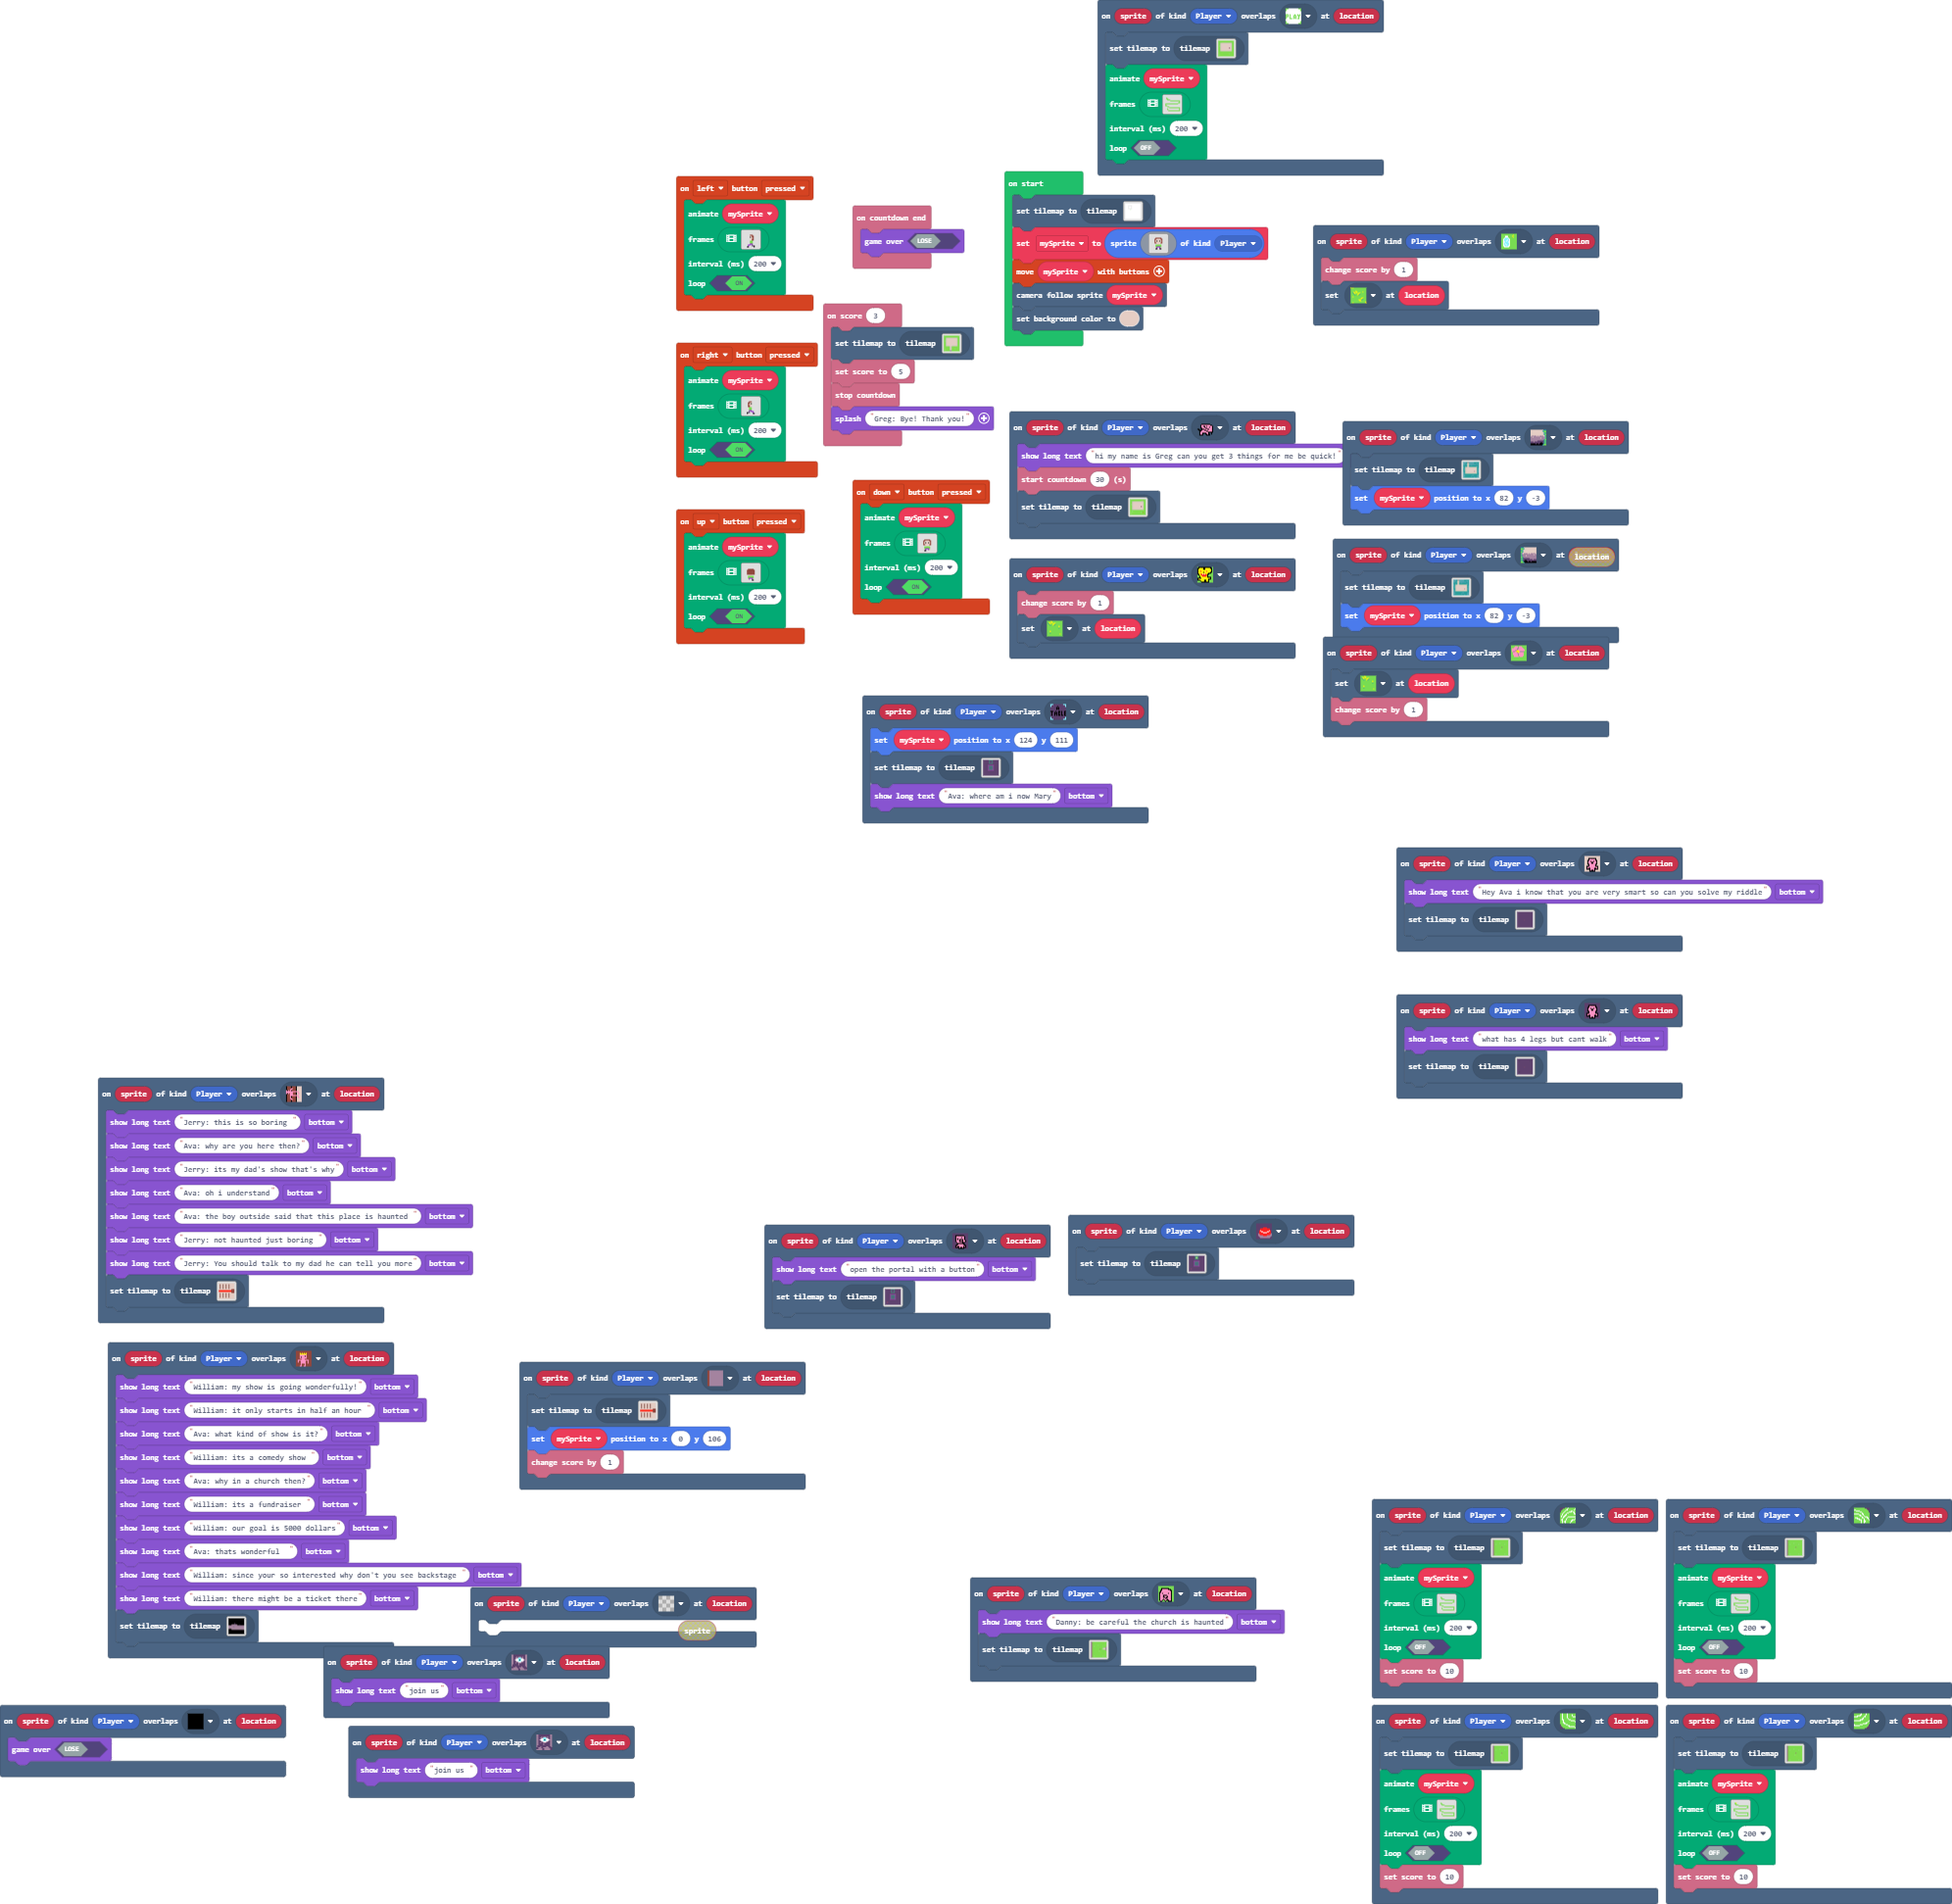
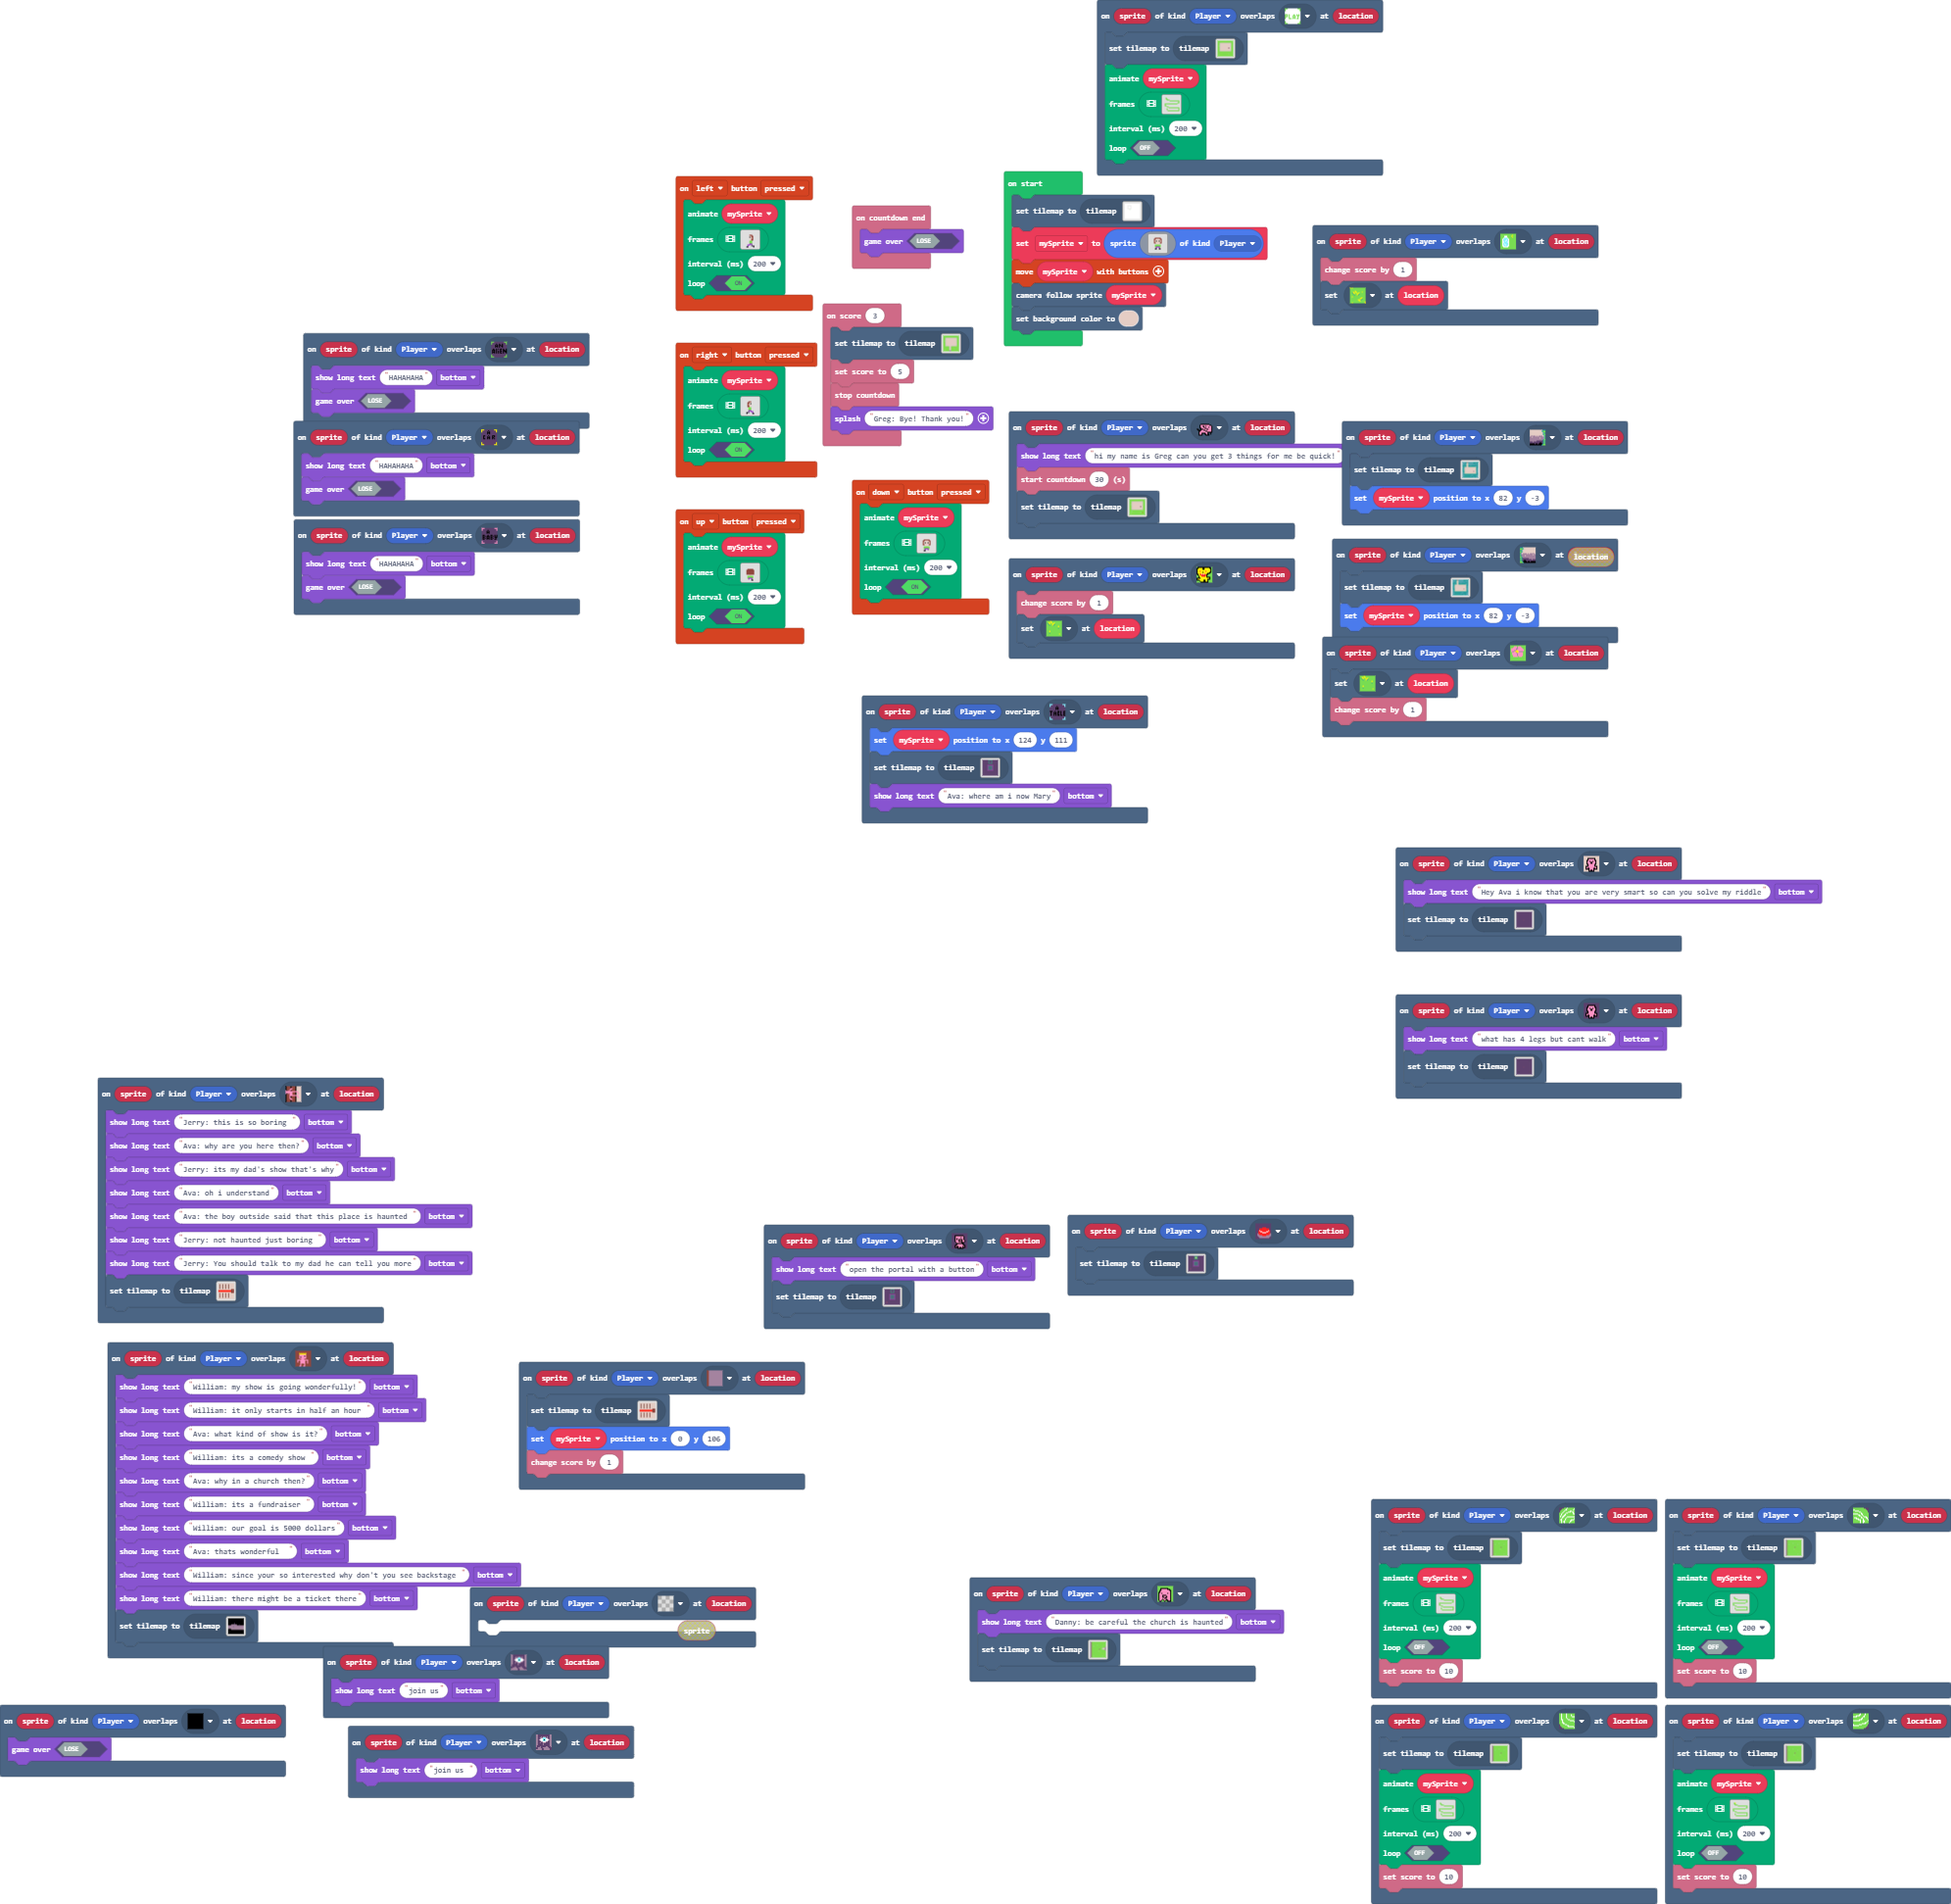
MINGBON

Changed region(s): [[0.1246, 0.1544, 0.3114, 0.3397]]

diff --git a/main.ts b/main.ts
@@ -67,6 +67,10 @@ scene.onOverlapTile(SpriteKind.Player, assets.tile`myTile34`, function (sprite, 
     mySprite.setPosition(0, 106)
     info.changeScoreBy(1)
 })
+scene.onOverlapTile(SpriteKind.Player, assets.tile`myTile15`, function (sprite, location) {
+    game.showLongText("HAHAHAHA", DialogLayout.Bottom)
+    game.gameOver(false)
+})
 scene.onOverlapTile(SpriteKind.Player, assets.tile`myTile22`, function (sprite, location) {
     tiles.setCurrentTilemap(tilemap`level27`)
 })
@@ -173,6 +177,10 @@ scene.onOverlapTile(SpriteKind.Player, assets.tile`myTile13`, function (sprite, 
 scene.onOverlapTile(SpriteKind.Player, assets.tile`myTile7`, function (sprite, location) {
     tiles.setTileAt(location, sprites.castle.tileGrass1)
     info.changeScoreBy(1)
+})
+scene.onOverlapTile(SpriteKind.Player, assets.tile`myTile12`, function (sprite, location) {
+    game.showLongText("HAHAHAHA", DialogLayout.Bottom)
+    game.gameOver(false)
 })
 controller.left.onEvent(ControllerButtonEvent.Pressed, function () {
     animation.runImageAnimation(
@@ -355,6 +363,10 @@ scene.onOverlapTile(SpriteKind.Player, assets.tile`myTile29`, function (sprite, 
 scene.onOverlapTile(SpriteKind.Player, assets.tile`myTile21`, function (sprite, location) {
     game.showLongText("open the portal with a button", DialogLayout.Bottom)
     tiles.setCurrentTilemap(tilemap`level23`)
+})
+scene.onOverlapTile(SpriteKind.Player, assets.tile`myTile16`, function (sprite, location) {
+    game.showLongText("HAHAHAHA", DialogLayout.Bottom)
+    game.gameOver(false)
 })
 scene.onOverlapTile(SpriteKind.Player, assets.tile`myTile20`, function (sprite, location) {
     tiles.setCurrentTilemap(tilemap`level1`)
